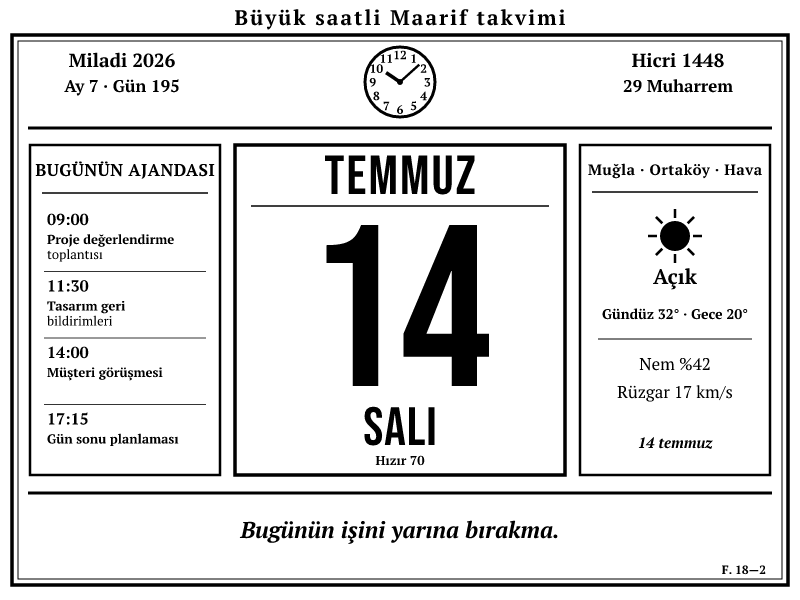
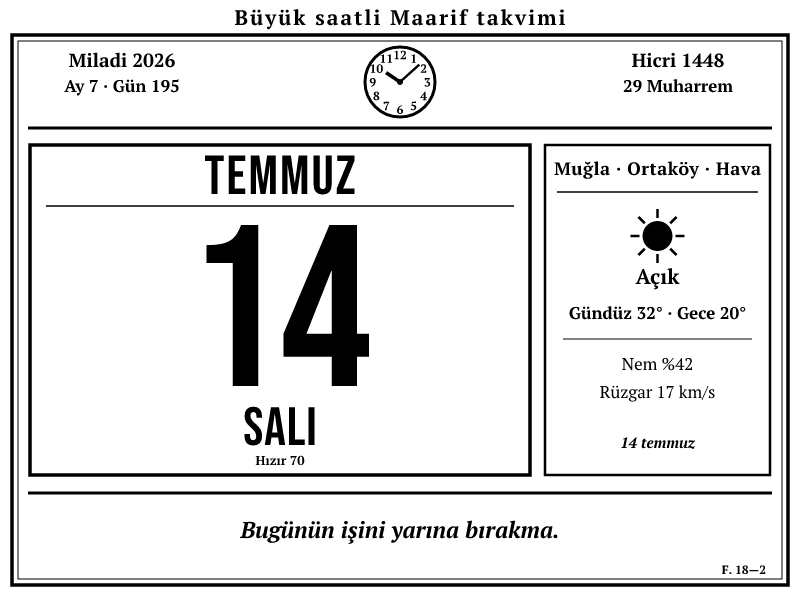
feat: hide empty agenda in date layout

diff --git a/src/render.js b/src/render.js
@@ -507,9 +507,8 @@ export function buildLandscapeSVG(model, variant = 'balanced') {
     s.push(landscapeDateBox(model, 270, 145, 260, 330));
     s.push(landscapeWeatherBox(model, 545, 145, 225, 330));
   } else if (variant === 'date-focus') {
-    s.push(landscapeCalendarBox(model, 30, 145, 190, 330));
-    s.push(landscapeDateBox(model, 235, 145, 330, 330, true));
-    s.push(landscapeWeatherBox(model, 580, 145, 190, 330));
+    s.push(landscapeDateBox(model, 30, 145, 500, 330, true));
+    s.push(landscapeWeatherBox(model, 545, 145, 225, 330));
   } else {
     s.push(landscapeCalendarBox(model, 30, 145, 350, 330, 5));
     s.push(landscapeDateBox(model, 395, 145, 375, 215, true));